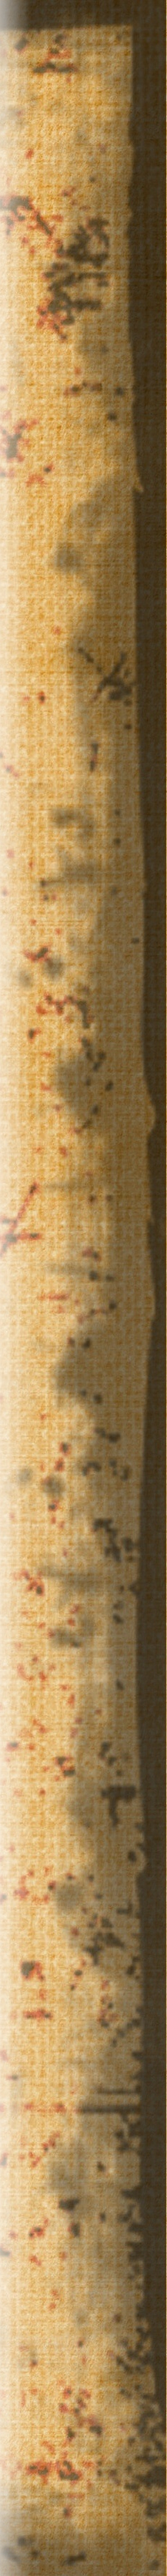
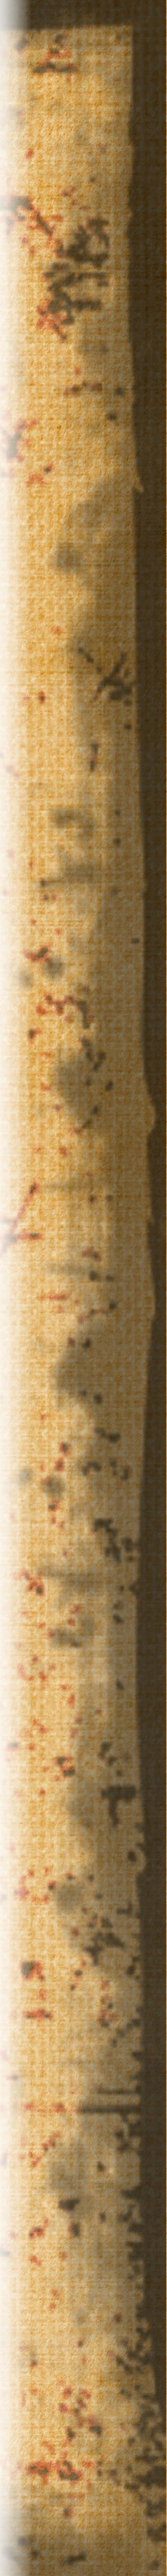
smooth borders around map

Changed region(s): [[0.0, 0.0, 0.1496, 1.0]]

diff --git a/styles.css b/styles.css
@@ -73,13 +73,31 @@ a:ACTIVE {
 	width: 86%;
 	z-index: 1;
 }
+#mapBorderBottom {
+	position: absolute;
+	left: 7%;
+	right: 7%;
+	top: 79%;
+	height: 4%;
+	width: 86%;
+	z-index: 1;
+}
 
 #mapBorderRight {
 	position: absolute;
 	left: 93%%;
 	right: 7%;
 	top: 4%;
-	height: 86%;
+	height: 79%;
+	width: 4%;
+	z-index: 1;
+}
+#mapBorderLeft {
+	position: absolute;
+	left: 7%;
+	right: 86%;
+	top: 4%;
+	height: 79%;
 	width: 4%;
 	z-index: 1;
 }

diff --git a/index.php b/index.php
@@ -6,9 +6,11 @@
 	<body>		
 		<?php include 'PHP/header.php';	?>
 		
-		<img id="mapBorder" alt="mapBorder" src="Images/OldPaperMap.jpg">
+	    <img id="mapBorder" alt="mapBorder" src="Images/OldPaperMap.jpg">
 		<img id="mapBorderTop" alt="mapBorderTop" src="Images/OldPaperMapTop.png">
-		<img id="mapBorderRight" alt="mapBorderTop" src="Images/OldPaperMapTop.png">
+		<img id="mapBorderRight" alt="mapBorderRight" src="Images/OldPaperMapRight.png">
+		<img id="mapBorderBottom" alt="mapBorderBottom" src="Images/OldPaperMapBottom.png">
+		<img id="mapBorderLeft" alt="mapBorderLeft" src="Images/OldPaperMapLeft.png">
 		<div id="map"></div>
 		<div id="slide">
 			<input id="ex13" class="slider" type="text" data-slider-handle="custom" 
